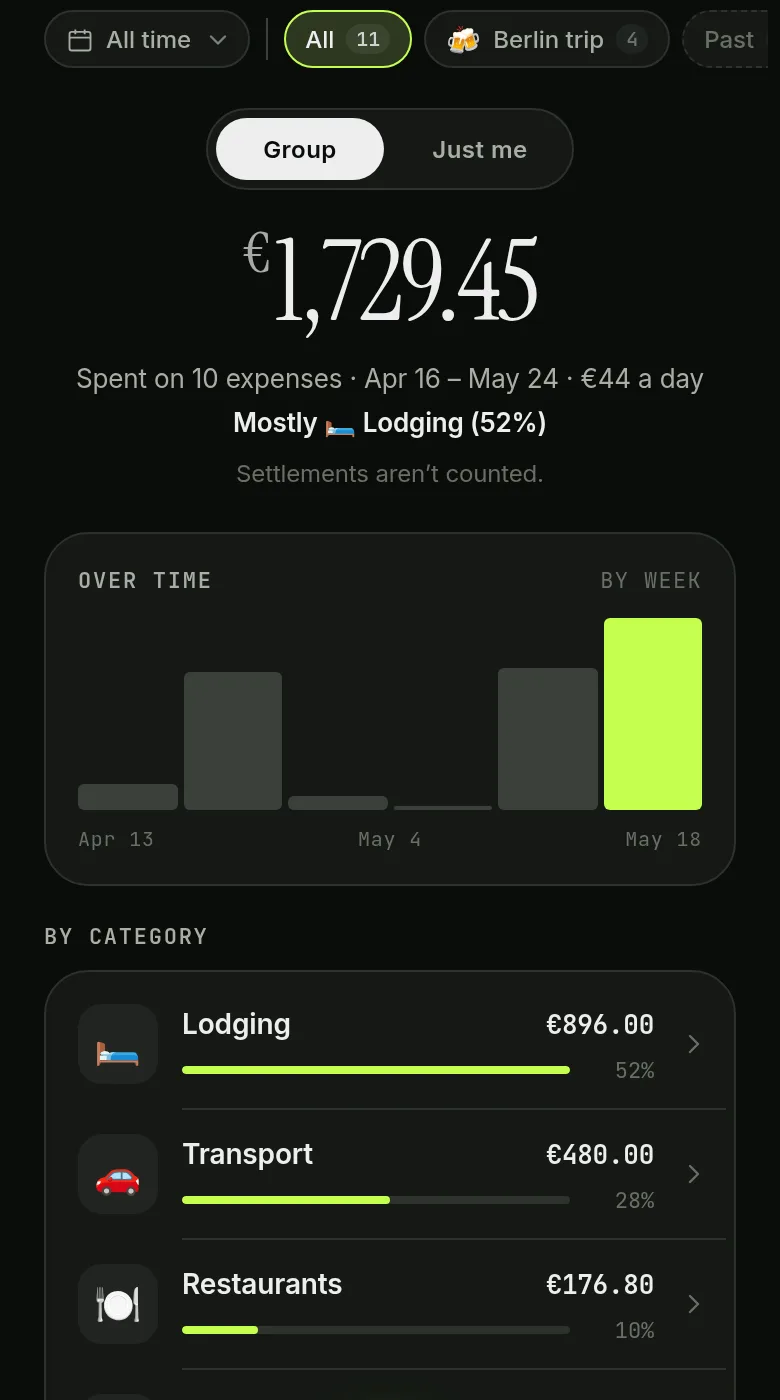
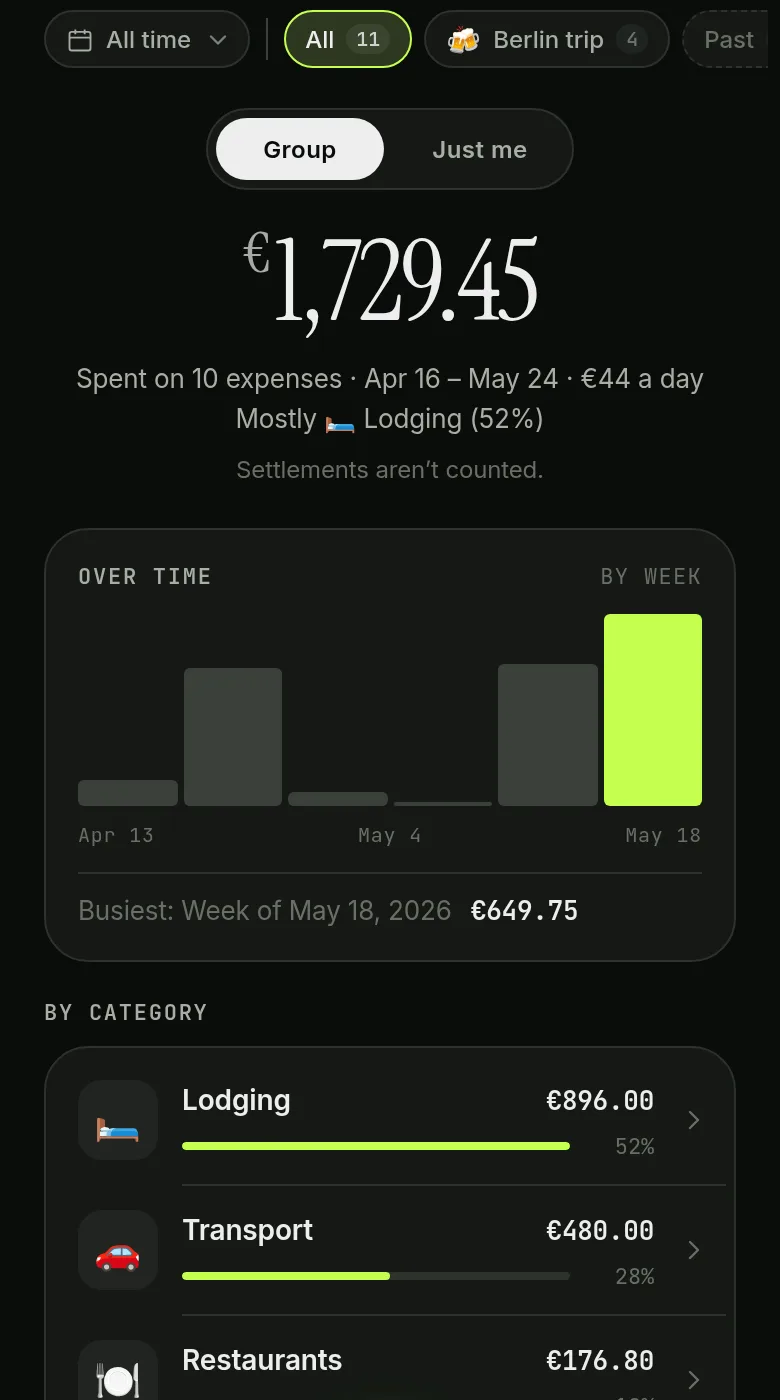
fix(stats): selectable chart bars with a caption, calmer hero, no stuck hover
The chart now says what its highlighted bar is; month filtering moves to an explicit link so a tap never changes the filter by surprise.

diff --git a/src/lib/components/SpendBars.svelte b/src/lib/components/SpendBars.svelte
@@ -43,6 +43,12 @@
 	});
 
 	const describe = (b: SpendBucket) => `${formatBucket(b.start, series.size)}: ${formatAmount(b.total, symbol, currency)}`;
+
+	let pickedStart = $state<number | null>(null);
+	const peak = $derived(series.buckets.reduce<SpendBucket | null>((best, b) => (b.total > (best?.total ?? 0) ? b : best), null));
+	// a pick from an earlier filter no longer exists once the series changes
+	const picked = $derived(series.buckets.find((b) => b.start === pickedStart) ?? null);
+	const shown = $derived(picked ?? peak);
 </script>
 
 <div class="card spend-card">
@@ -53,29 +59,30 @@
 	<div class="spend-bars">
 		{#each series.buckets as b (b.start)}
 			{@const heightPct = (b.total / max) * 100}
-			{@const isPeak = b.total === max && b.total > 0}
-			{#if series.size === 'month'}
-				<button
-					type="button"
-					class="spend-col is-month"
-					aria-label="{describe(b)}. Show this month"
-					title={describe(b)}
-					onclick={() => onPickMonth(b.start)}
-				>
-					<span class="spend-bar" class:peak={isPeak} style="height: max(2px, {heightPct}%);"></span>
-				</button>
-			{:else}
-				<div class="spend-col" role="img" aria-label={describe(b)} title={describe(b)}>
-					<span class="spend-bar" class:peak={isPeak} style="height: max(2px, {heightPct}%);"></span>
-				</div>
-			{/if}
+			<button
+				type="button"
+				class="spend-col"
+				aria-label={describe(b)}
+				aria-pressed={shown?.start === b.start}
+				onclick={() => (pickedStart = b.start)}
+			>
+				<span class="spend-bar" class:on={shown?.start === b.start} style="height: max(2px, {heightPct}%);"></span>
+			</button>
 		{/each}
 	</div>
 	<div class="row between spend-axis" aria-hidden="true">
 		{#each axisLabels as label, i (i)}<span>{label}</span>{/each}
 	</div>
-	{#if series.size === 'month'}
-		<p class="dim spend-hint">Tap a month to see just that month.</p>
+	{#if shown}
+		<div class="row between spend-caption" aria-live="polite">
+			<span>
+				<span class="dim">{picked ? '' : 'Busiest: '}{formatBucket(shown.start, series.size)}</span>
+				<span class="num spend-caption-amount">{formatAmount(shown.total, symbol, currency)}</span>
+			</span>
+			{#if series.size === 'month'}
+				<button type="button" class="spend-only" onclick={() => onPickMonth(shown.start)}>Show only this month</button>
+			{/if}
+		</div>
 	{/if}
 </div>
 
@@ -115,12 +122,12 @@
 		border-radius: 4px;
 	}
 
-	.spend-col.is-month {
+	.spend-col {
 		cursor: pointer;
 		-webkit-tap-highlight-color: transparent;
 	}
 
-	.spend-col.is-month:focus-visible {
+	.spend-col:focus-visible {
 		outline: 2px solid var(--accent);
 		outline-offset: 2px;
 	}
@@ -133,12 +140,14 @@
 		transition: background 0.12s ease;
 	}
 
-	.spend-bar.peak {
+	.spend-bar.on {
 		background: var(--accent);
 	}
 
-	.spend-col.is-month:hover .spend-bar:not(.peak) {
-		background: var(--ink-3);
+	@media (hover: hover) {
+		.spend-col:hover .spend-bar:not(.on) {
+			background: var(--ink-3);
+		}
 	}
 
 	.spend-axis {
@@ -149,8 +158,27 @@
 		letter-spacing: 0.04em;
 	}
 
-	.spend-hint {
-		margin: 10px 0 0;
-		font-size: 12px;
+	.spend-caption {
+		margin-top: 12px;
+		padding-top: 10px;
+		border-top: 1px solid var(--line);
+		gap: 10px;
+		flex-wrap: wrap;
+		font-size: 13px;
+	}
+
+	.spend-caption-amount {
+		margin-left: 6px;
+		font-weight: 600;
+	}
+
+	.spend-only {
+		padding: 0;
+		border: 0;
+		background: none;
+		color: var(--accent);
+		font: inherit;
+		font-weight: 600;
+		cursor: pointer;
 	}
 </style>

diff --git a/e2e/stats.e2e.ts b/e2e/stats.e2e.ts
@@ -79,6 +79,16 @@ describe('stats', () => {
 		await expect.poll(heroAmount).toBe('€1,729.45');
 	});
 
+	it('captions the busiest period, then whichever bar is tapped', async () => {
+		const caption = page.locator('.spend-caption');
+		expect(await caption.innerText()).toMatch(/^Busiest: Week of/);
+		const bars = page.locator('.spend-col');
+		await bars.first().click();
+		await expect.poll(() => caption.innerText()).not.toMatch(/^Busiest/);
+		expect(await bars.first().getAttribute('aria-pressed')).toBe('true');
+		expect(await caption.innerText()).toContain(await bars.first().getAttribute('aria-label').then((label) => label!.split(': ')[1]));
+	});
+
 	it('shows an empty state for a month with no spending and offers all time', async () => {
 		await periodChip().click();
 		await periodSheet().getByRole('button', { name: /^This month/ }).click();

diff --git a/src/lib/components/TopExpensesCard.svelte b/src/lib/components/TopExpensesCard.svelte
@@ -37,7 +37,7 @@
 			<span class="cat-tile top-cat">{cat?.emoji ?? '📦'}</span>
 			<div class="col top-text">
 				<span class="top-title">{e.description || 'Expense'}</span>
-				<span class="dim mono top-meta">
+				<span class="dim top-meta">
 					{formatDay(e.date)} · {e.payments[0]?.memberId === currentMemberId ? 'You' : payerName} paid{#if amount !== base.amount}{` ${formatAmount(base.amount, symbol, currency)}`}{/if}
 				</span>
 			</div>
@@ -79,7 +79,7 @@
 	}
 
 	.top-meta {
-		font-size: 11px;
+		font-size: 12px;
 		margin-top: 2px;
 	}
 

diff --git a/src/lib/components/PerPersonCard.svelte b/src/lib/components/PerPersonCard.svelte
@@ -44,7 +44,7 @@
 					</span>
 				</div>
 				<div class="person-meta">
-					<span class="dim">Share {formatAmount(row.cost, symbol, currency)} · paid {formatAmount(row.paid, symbol, currency)}</span>
+					<span class="dim">Share {formatAmount(row.cost, symbol, currency)} · Paid {formatAmount(row.paid, symbol, currency)}</span>
 					<span class="dim person-standing">{standing(row.difference)}</span>
 				</div>
 				<div class="gap-track" aria-hidden="true">

diff --git a/src/lib/components/CategoryBars.svelte b/src/lib/components/CategoryBars.svelte
@@ -67,8 +67,11 @@
 		-webkit-tap-highlight-color: transparent;
 	}
 
-	.category-row:hover {
-		background: color-mix(in oklab, var(--ink) 4%, transparent);
+	/* touch screens keep :hover after a tap, which would leave a row looking selected */
+	@media (hover: hover) {
+		.category-row:hover {
+			background: color-mix(in oklab, var(--ink) 4%, transparent);
+		}
 	}
 
 	.category-row:focus-visible {

diff --git a/src/routes/p/[roomId]/stats/+page.svelte b/src/routes/p/[roomId]/stats/+page.svelte
@@ -425,9 +425,9 @@
 	}
 
 	.hero-insight {
-		margin: 6px 0 0;
+		margin: 4px 0 0;
 		font-size: 13px;
-		font-weight: 600;
+		color: var(--ink-2);
 	}
 
 	.hero-note {
@@ -440,7 +440,7 @@
 	}
 
 	.section-intro {
-		margin: -4px 4px 10px;
+		margin: -4px 0 10px;
 		font-size: 12px;
 		line-height: 1.45;
 	}
